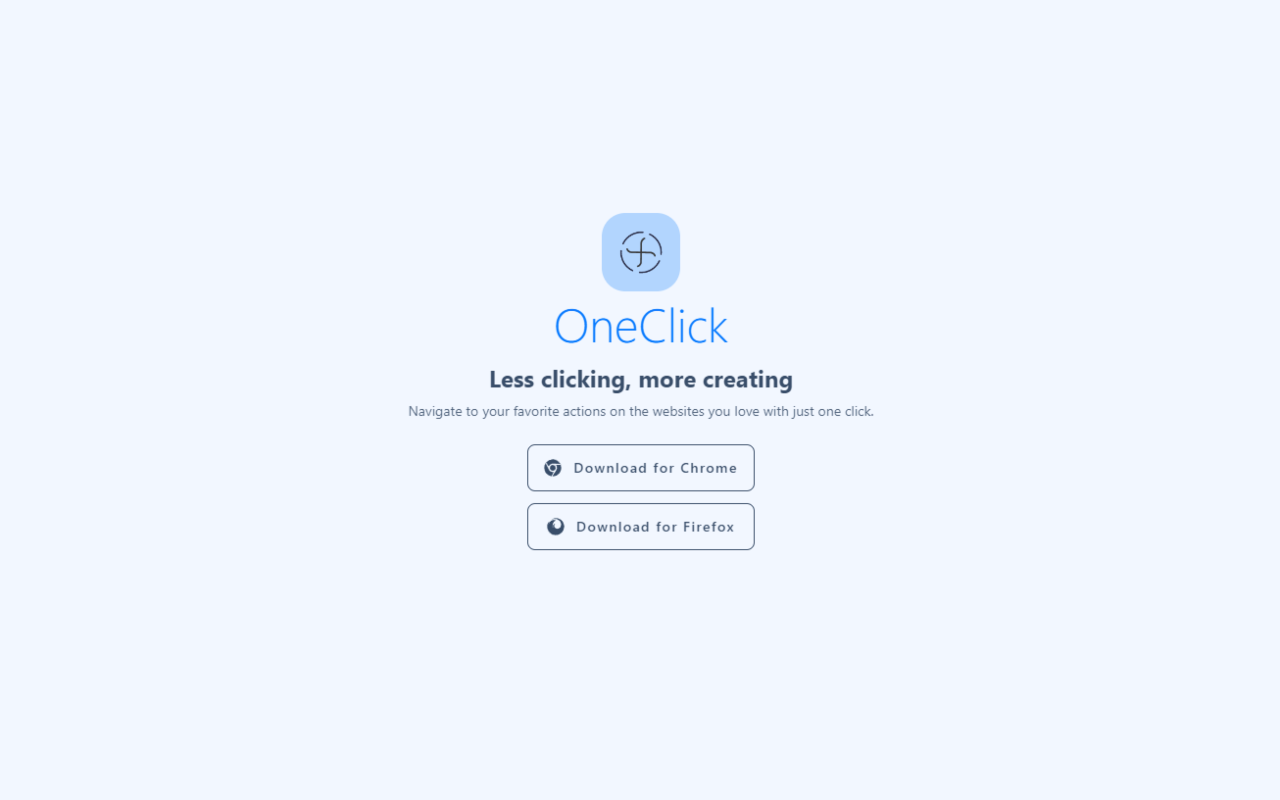
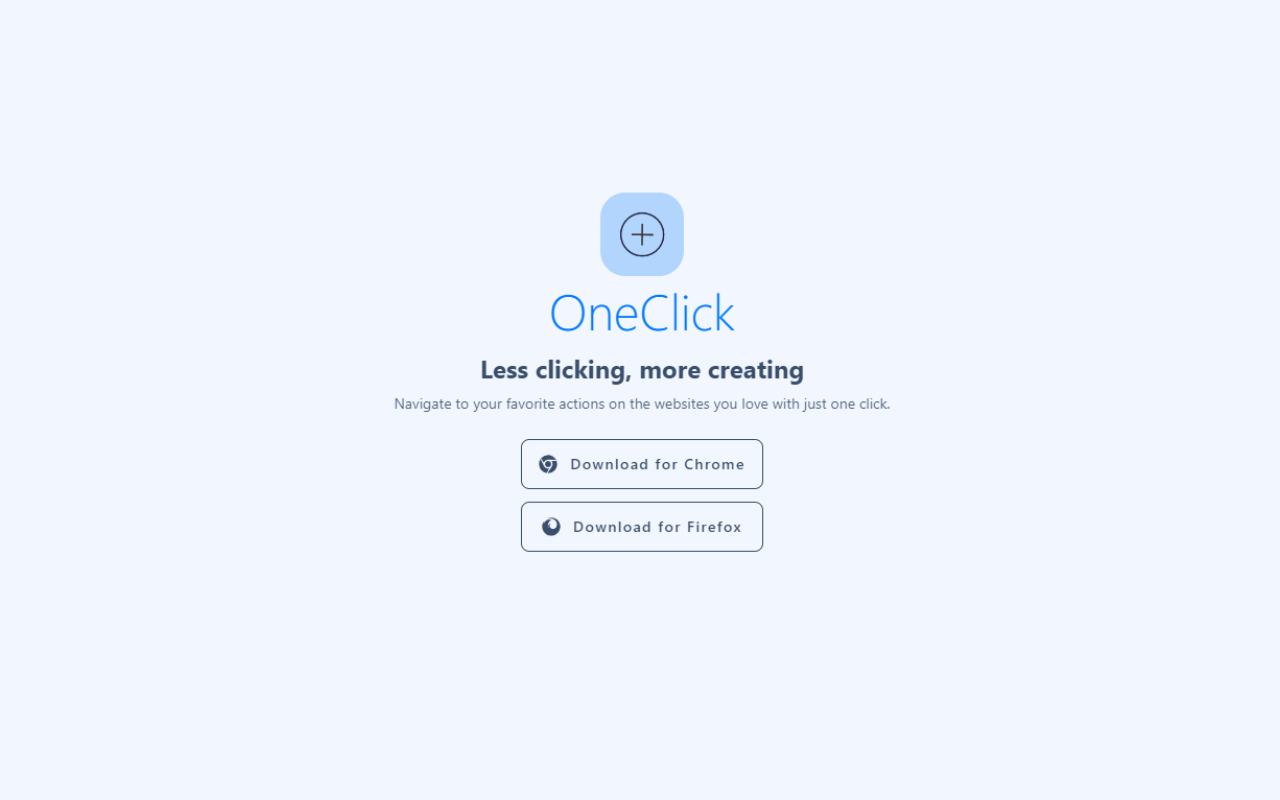
Update README

Changed region(s): [[0.3125, 0.2188, 0.6875, 0.6875]]

diff --git a/README.md b/README.md
@@ -48,15 +48,13 @@
 
 ## Description
 
-**OneClick** is a browser extension that allows users to quickly access a wide variety of actions with just one click. The extension includes 88 shortcuts, 29 themes, and a clean, minimalist UI. It is also open-source and free of ads. Some of the available shortcuts include creating a meeting on Google Meet, editing photos, creating new projects with popular frameworks, designing a website.
-
-The extension is available as a web app, Chrome extension, and Firefox add-on.
+**OneClick** is the ultimate productivity tool for your browser. With just one click, access a wide variety of actions and shortcuts, including creating a meeting on Google Meet, editing photos, creating new projects with popular frameworks, and designing a website. The extension includes 88 shortcuts, 29 customizable themes, and a clean, minimalist UI. Plus, it's open-source and free of ads. OneClick is available as a web app, Chrome extension, and Firefox add-on, making it easy to use across all your devices. Upgrade your browsing experience with OneClick today!
 
 <br/>
 
 <p align="center">
   <a href="https://oneclickweb.netlify.app">
-    <img src="https://user-images.githubusercontent.com/45073703/212967960-29d33b52-c5a4-4c3e-87bc-3f37f65530a7.png" alt="Preview" width="60%"/>
+    <img src="https://user-images.githubusercontent.com/45073703/215089263-a676c8fa-f49b-4614-bdcc-cf7beeb3e651.png" alt="Preview" width="60%"/>
   </a>
   <br/>
   <a href="#arifszn"><img src="https://arifszn.github.io/assets/img/drop-shadow.png" width="50%" alt="Shadow"/></a>
